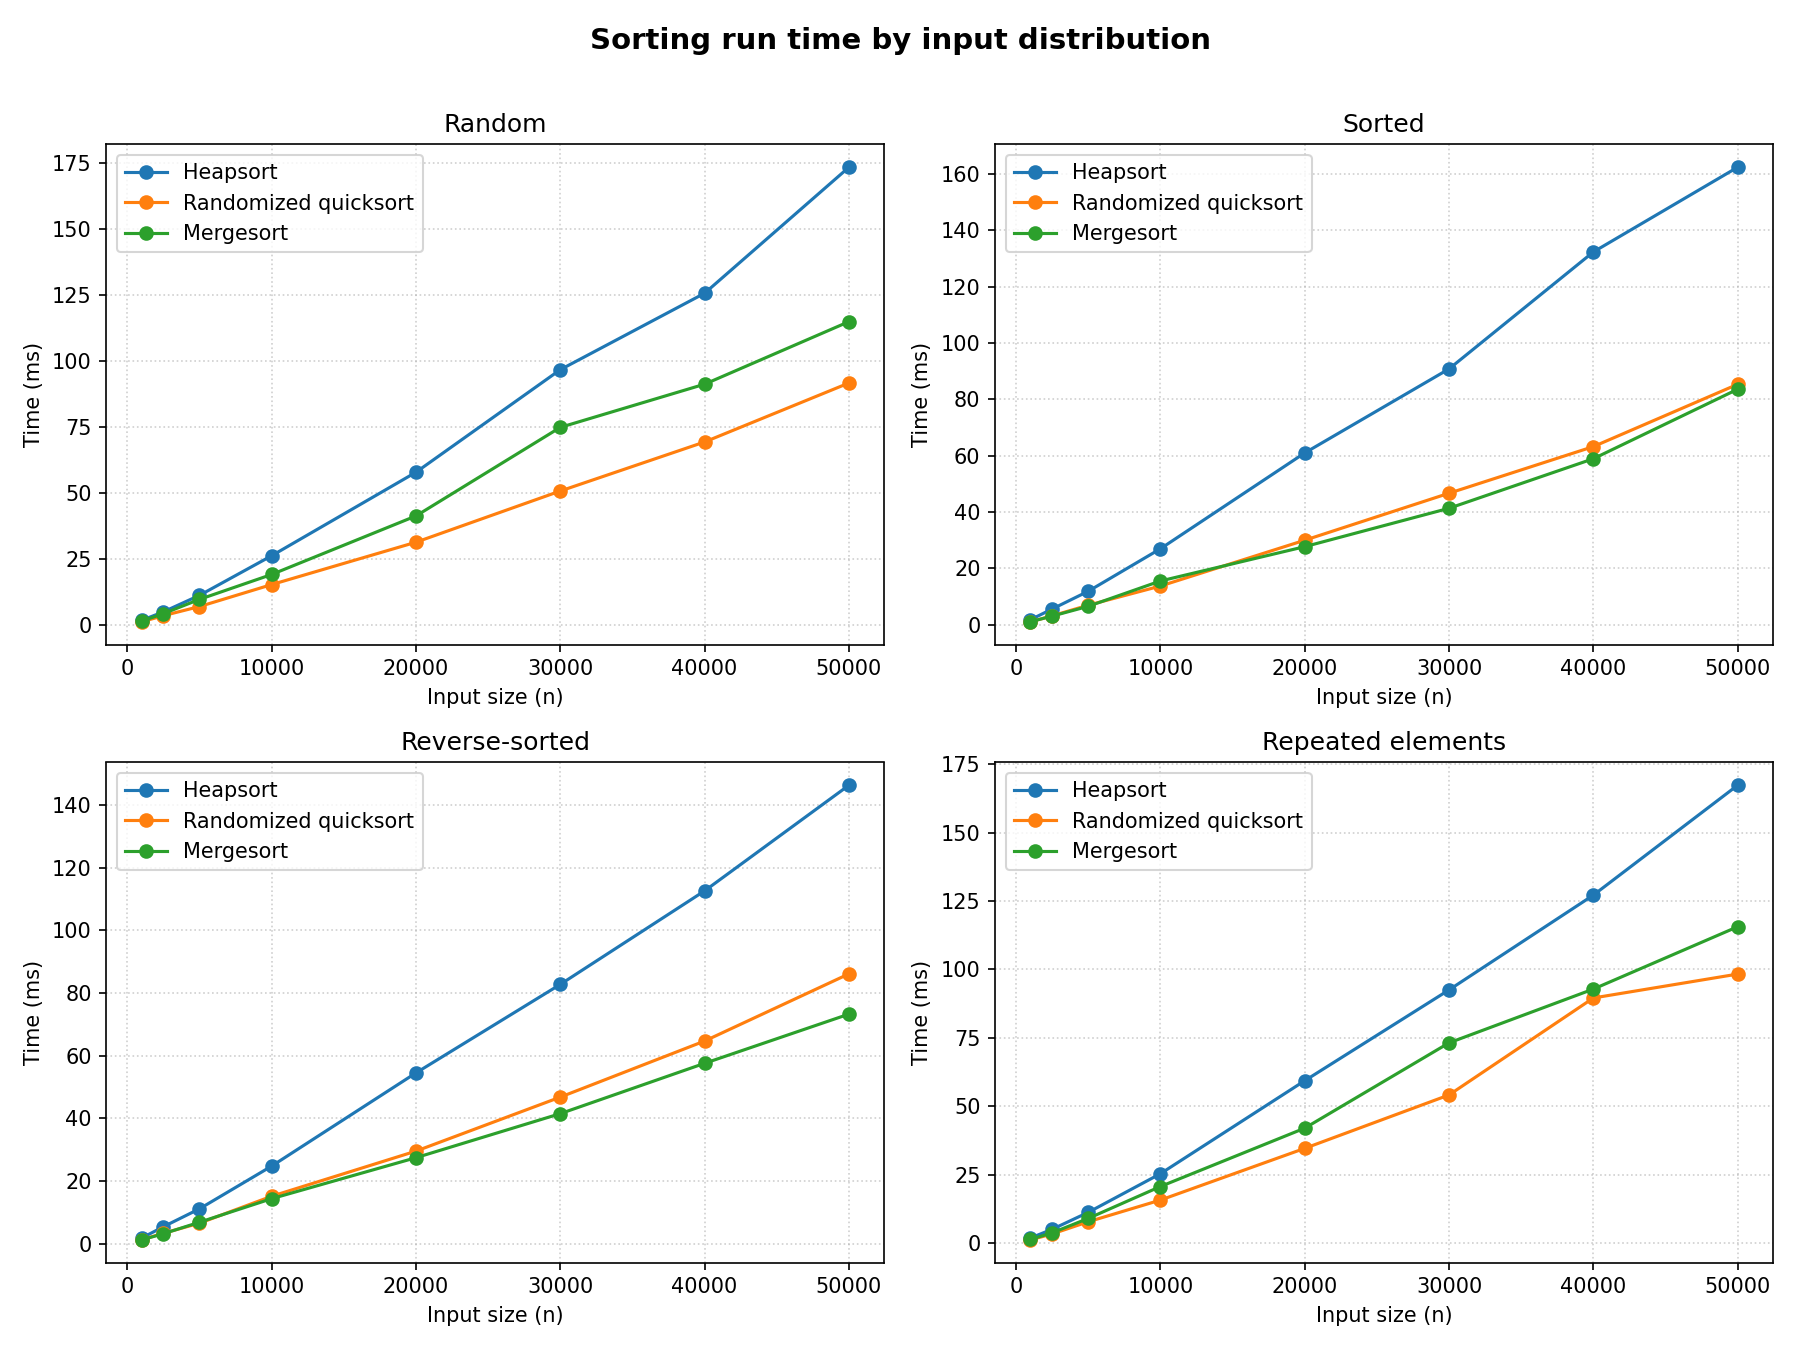
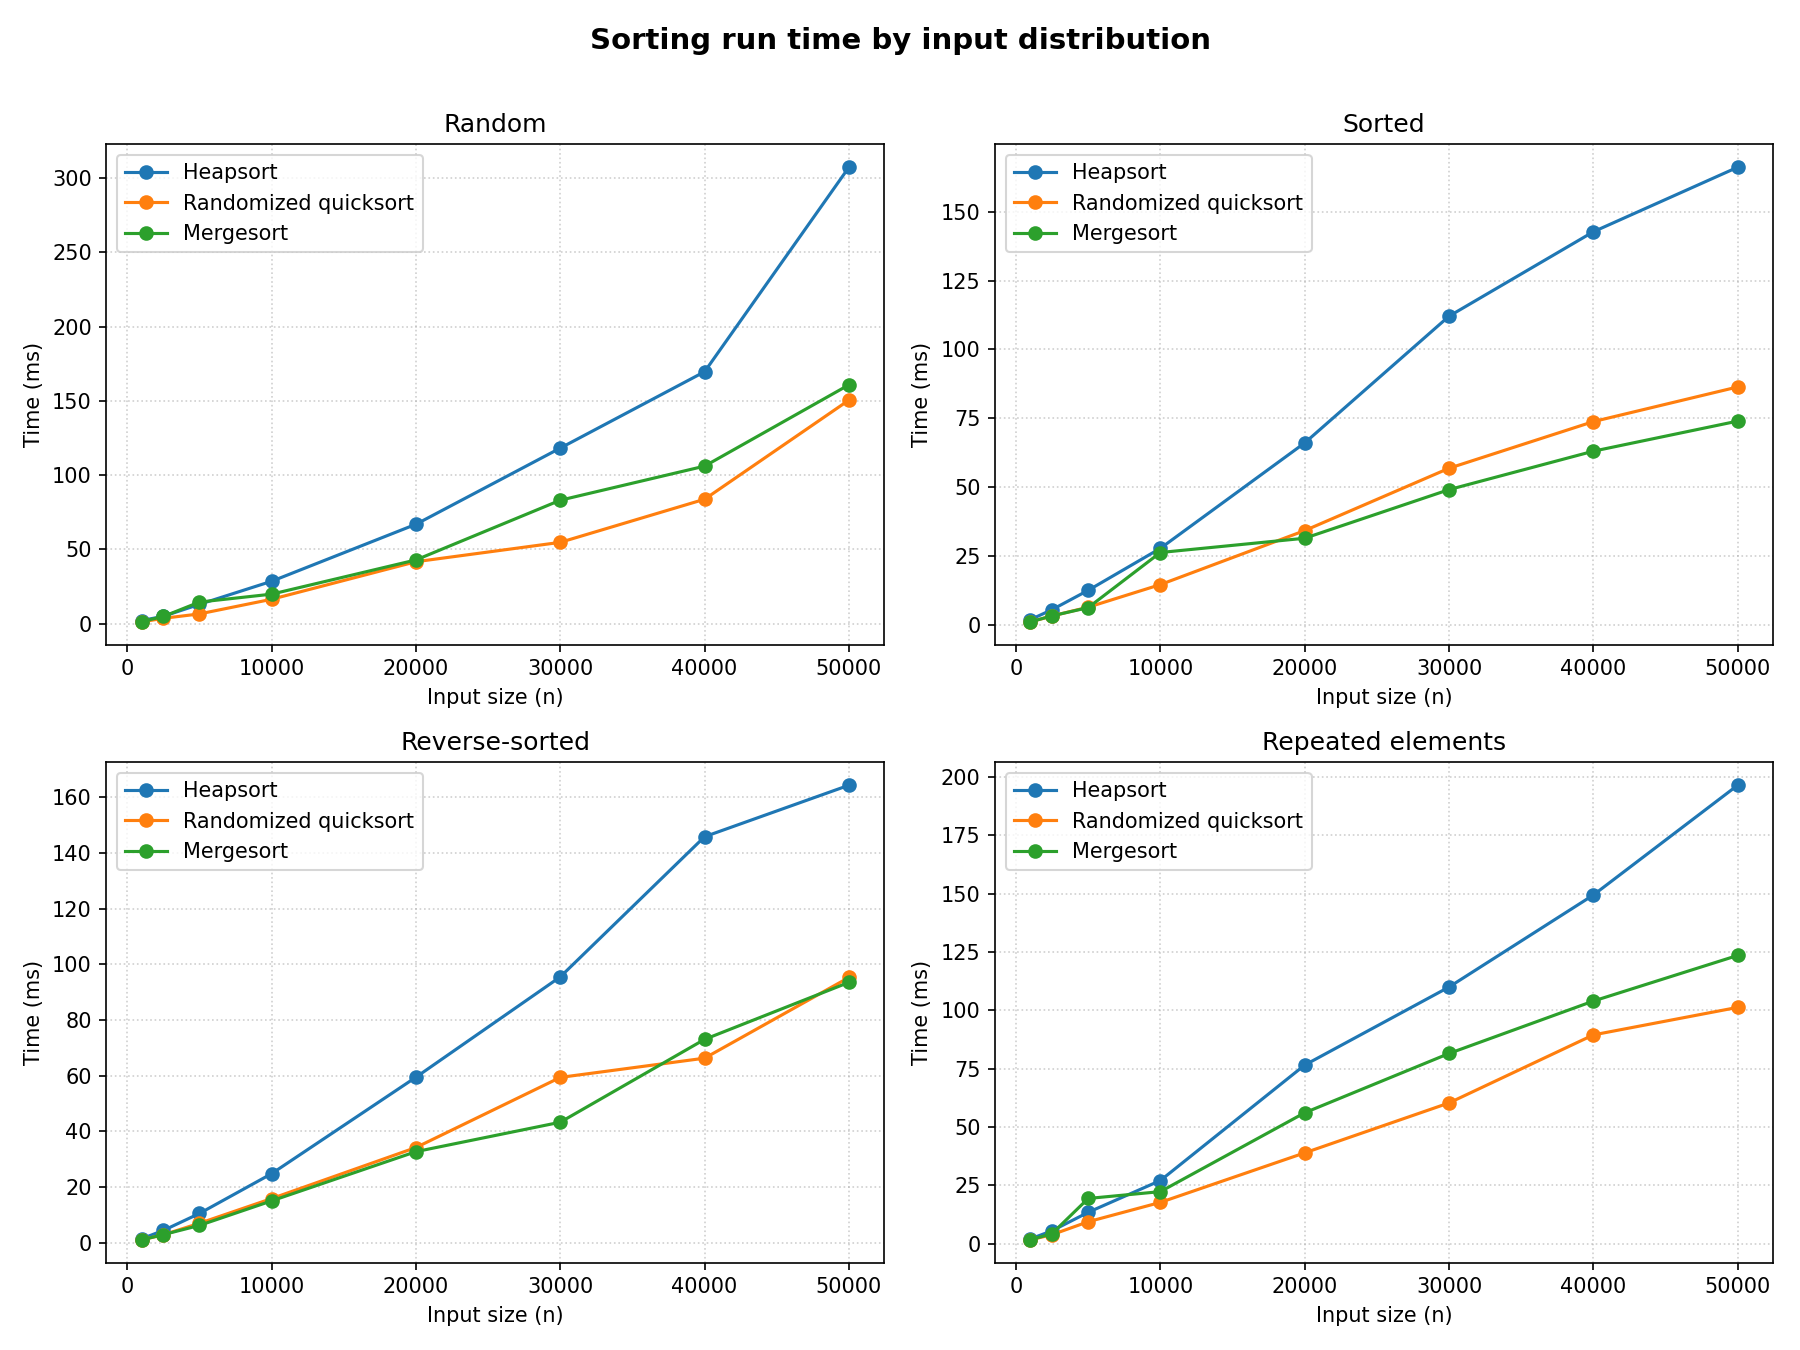
benchmark priority queue ops

diff --git a/assignment-4/task2/benchmark.py b/assignment-4/task2/benchmark.py
@@ -1,0 +1,138 @@
+"""Per-operation scaling study for the max-heap priority queue.
+
+For each heap size the script times insert, extract_max, increase_key, and decrease_key, averaging about a thousand
+operations per measurement to reduce noise. It prints a table and saves a plot of average operation time against heap
+size on a log-scaled x-axis, where an O(log n) cost shows up as a slowly rising near-straight line.
+"""
+
+import random
+from time import perf_counter
+
+import matplotlib
+
+matplotlib.use("Agg")
+import matplotlib.pyplot as plt
+from priority_queue import PriorityQueue
+from task import Task
+
+HEAP_SIZES = [1000, 5000, 10000, 50000, 100000]
+OPERATIONS_PER_MEASUREMENT = 1000
+MAX_PRIORITY = 10**6
+REKEY_STEP = 1000
+PLOT_FILENAME = "operation_scaling.png"
+
+MICROSECONDS_PER_SECOND = 1_000_000
+
+
+def run_benchmark():
+    measurements = _measure_operations()
+    _print_table(measurements)
+    _plot_measurements(measurements)
+
+
+def _measure_operations():
+    timers = {
+        "insert": _time_insert,
+        "extract_max": _time_extract_max,
+        "increase_key": _time_increase_key,
+        "decrease_key": _time_decrease_key,
+    }
+    return {
+        name: [timer(size) for size in HEAP_SIZES] for name, timer in timers.items()
+    }
+
+
+def _build_queue(size):
+    queue = PriorityQueue()
+    for task_id in range(size):
+        priority = random.randint(0, MAX_PRIORITY)
+        queue.insert(Task(task_id, priority, arrival_time=task_id, deadline=0))
+    return queue
+
+
+def _time_insert(size):
+    queue = _build_queue(size)
+    new_tasks = [
+        Task(size + offset, random.randint(0, MAX_PRIORITY), size + offset, 0)
+        for offset in range(OPERATIONS_PER_MEASUREMENT)
+    ]
+    start = perf_counter()
+    for task in new_tasks:
+        queue.insert(task)
+    return _average_microseconds(start, len(new_tasks))
+
+
+def _time_extract_max(size):
+    # Start larger so the heap stays near `size` while the timed extractions run.
+    queue = _build_queue(size + OPERATIONS_PER_MEASUREMENT)
+    start = perf_counter()
+    for _ in range(OPERATIONS_PER_MEASUREMENT):
+        queue.extract_max()
+    return _average_microseconds(start, OPERATIONS_PER_MEASUREMENT)
+
+
+def _time_increase_key(size):
+    queue = _build_queue(size)
+    selected_ids = random.sample(range(size), min(OPERATIONS_PER_MEASUREMENT, size))
+    # Resolve the new priorities before timing so the loop is pure heap work.
+    updates = [
+        (task_id, queue.priority_of(task_id) + random.randint(1, REKEY_STEP))
+        for task_id in selected_ids
+    ]
+    start = perf_counter()
+    for task_id, new_priority in updates:
+        queue.increase_key(task_id, new_priority)
+    return _average_microseconds(start, len(updates))
+
+
+def _time_decrease_key(size):
+    queue = _build_queue(size)
+    selected_ids = random.sample(range(size), min(OPERATIONS_PER_MEASUREMENT, size))
+    updates = [
+        (task_id, queue.priority_of(task_id) - random.randint(1, REKEY_STEP))
+        for task_id in selected_ids
+    ]
+    start = perf_counter()
+    for task_id, new_priority in updates:
+        queue.decrease_key(task_id, new_priority)
+    return _average_microseconds(start, len(updates))
+
+
+def _average_microseconds(start_time, operation_count):
+    elapsed_seconds = perf_counter() - start_time
+    return elapsed_seconds / operation_count * MICROSECONDS_PER_SECOND
+
+
+def _print_table(measurements):
+    print(
+        "=== Average operation time (microseconds, "
+        f"{OPERATIONS_PER_MEASUREMENT} operations per measurement) ==="
+    )
+    operation_names = list(measurements)
+    header = f"{'n':>8} | " + " | ".join(f"{name:>13}" for name in operation_names)
+    print(header)
+    print("-" * len(header))
+    for size_index, size in enumerate(HEAP_SIZES):
+        row = [f"{size:>8}"]
+        for name in operation_names:
+            row.append(f"{measurements[name][size_index]:>13.3f}")
+        print(" | ".join(row))
+
+
+def _plot_measurements(measurements):
+    figure, axis = plt.subplots(figsize=(9, 6))
+    for name, times in measurements.items():
+        axis.plot(HEAP_SIZES, times, marker="o", label=name)
+    axis.set_xscale("log")
+    axis.set_title("Priority queue operation time by heap size")
+    axis.set_xlabel("Heap size (n), log scale")
+    axis.set_ylabel("Average time per operation (microseconds)")
+    axis.legend()
+    axis.grid(True, which="both", linestyle=":", alpha=0.6)
+    figure.tight_layout()
+    figure.savefig(PLOT_FILENAME, dpi=150)
+    print(f"\nSaved plot to {PLOT_FILENAME}")
+
+
+if __name__ == "__main__":
+    run_benchmark()

diff --git a/assignment-4/task2/demo.py b/assignment-4/task2/demo.py
@@ -1,0 +1,82 @@
+"""Scheduling demonstration for the max-heap priority queue.
+
+The script inserts a small set of tasks, including a pair that share a priority so the arrival-time tie-break is visible,
+raises one task and lowers another mid-stream, then serves every task in turn and prints the execution order. An inline
+check confirms the order respects priority and then arrival, and that every task stays retrievable after the re-keying.
+
+"""
+
+from priority_queue import PriorityQueue
+from task import Task
+
+
+def run_demo():
+    tasks = [
+        Task(task_id=1, priority=5, arrival_time=0, deadline=10),
+        Task(task_id=2, priority=3, arrival_time=1, deadline=8),
+        Task(task_id=3, priority=5, arrival_time=2, deadline=12),
+        Task(task_id=4, priority=1, arrival_time=3, deadline=6),
+        Task(task_id=5, priority=4, arrival_time=4, deadline=9),
+    ]
+
+    queue = PriorityQueue()
+    print("=== Inserted tasks ===")
+    for task in tasks:
+        queue.insert(task)
+        print(f"  inserted {task}")
+    print("\n=== Original order ===")
+    tasks.sort(key=lambda t: (-t.priority, t.arrival_time))
+    for task in tasks:
+        print(
+            f"  task {task.task_id} "
+            f"(priority {task.priority}, arrival {task.arrival_time})"
+        )
+
+    print("\n=== Re-keying ===")
+    queue.increase_key(task_id=2, new_priority=6)
+    print("  increase_key: task 2 priority 3 -> 6")
+    queue.decrease_key(task_id=5, new_priority=2)
+    print("  decrease_key: task 5 priority 4 -> 2")
+
+    _check_retrievable_after_rekey(queue, expected={1: 5, 2: 6, 3: 5, 4: 1, 5: 2})
+
+    print("\n=== Execution order (extract_max until empty) ===")
+    expected_order = _expected_order(queue)
+    served_order = []
+    while not queue.is_empty():
+        task = queue.extract_max()
+        served_order.append(task.task_id)
+        print(
+            f"  served task {task.task_id} "
+            f"(priority {task.priority}, arrival {task.arrival_time})"
+        )
+
+    _check_order(served_order, expected_order)
+
+
+def _expected_order(queue):
+    # Independently rank the tasks still in the queue by priority, then by
+    # earlier arrival, to compare against what extract_max produces.
+    snapshot = list(queue._heap)
+    snapshot.sort(key=lambda task: (-task.priority, task.arrival_time))
+    return [task.task_id for task in snapshot]
+
+
+def _check_retrievable_after_rekey(queue, expected):
+    all_present = all(task_id in queue for task_id in expected)
+    priorities_match = all(
+        queue.priority_of(task_id) == priority for task_id, priority in expected.items()
+    )
+    verdict = "PASS" if all_present and priorities_match else "FAIL"
+    print(f"  retrievable after re-keying: {verdict}")
+
+
+def _check_order(served_order, expected_order):
+    verdict = "PASS" if served_order == expected_order else "FAIL"
+    print(f"\nexecution order respects priority then arrival: {verdict}")
+    print(f"  served:   {served_order}")
+    print(f"  expected: {expected_order}")
+
+
+if __name__ == "__main__":
+    run_demo()
